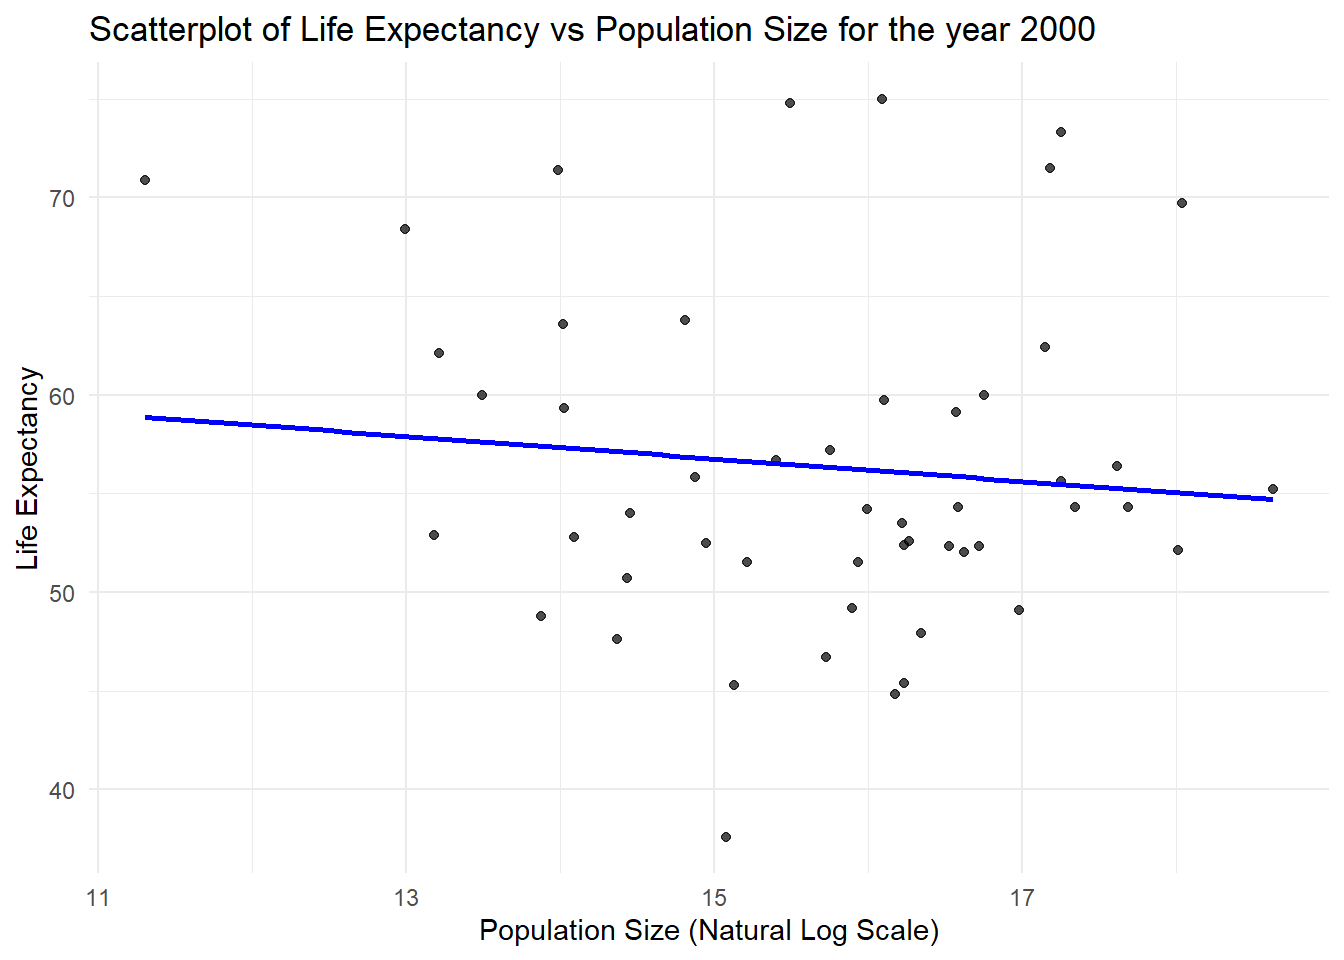
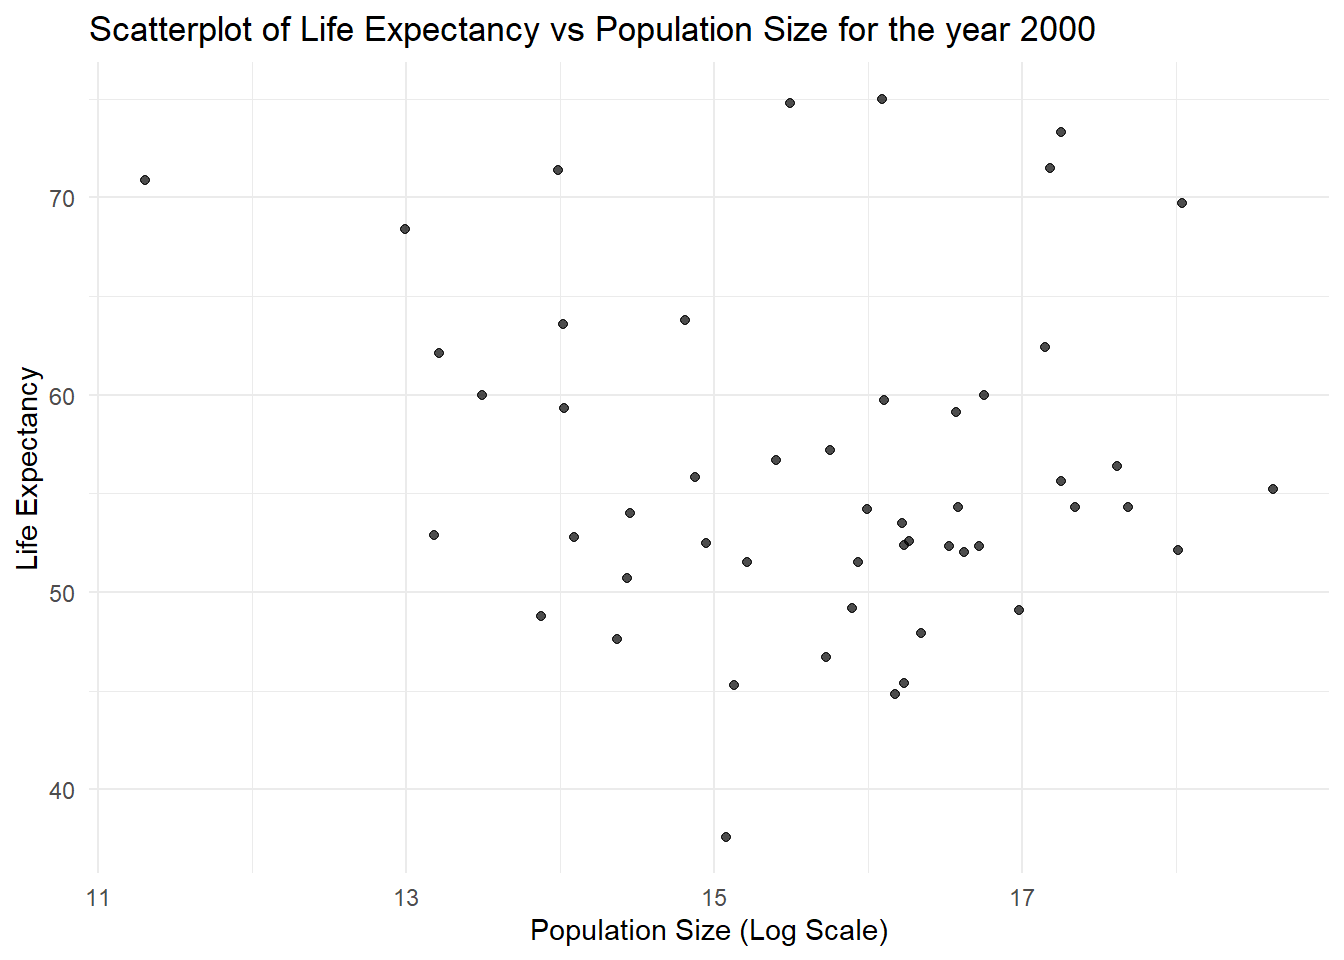
Module 3 Part 1V2

diff --git a/docs/coding-exercise/coding-exercise.html b/docs/coding-exercise/coding-exercise.html
@@ -478,16 +478,12 @@ pre > code.sourceCode > span > a:first-child::before { text-decoration: underlin
 <div class="cell">
 <div class="sourceCode cell-code" id="cb31"><pre class="sourceCode r code-with-copy"><code class="sourceCode r"><span id="cb31-1"><a href="#cb31-1" aria-hidden="true" tabindex="-1"></a><span class="co"># Creating a scatterplot </span></span>
 <span id="cb31-2"><a href="#cb31-2" aria-hidden="true" tabindex="-1"></a><span class="fu">ggplot</span>(data_new, <span class="fu">aes</span>(<span class="at">x =</span> <span class="fu">log</span>(infant_mortality), <span class="at">y =</span> life_expectancy)) <span class="sc">+</span> </span>
-<span id="cb31-3"><a href="#cb31-3" aria-hidden="true" tabindex="-1"></a>  <span class="fu">geom_point</span>(<span class="at">color =</span> <span class="st">"brown"</span>, <span class="at">alpha =</span> <span class="fl">0.7</span>) <span class="sc">+</span> <span class="fu">geom_smooth</span>(<span class="at">method =</span> <span class="st">"lm"</span>, <span class="at">color =</span> <span class="st">"blue"</span>, <span class="at">se =</span> <span class="cn">FALSE</span>) <span class="sc">+</span></span>
-<span id="cb31-4"><a href="#cb31-4" aria-hidden="true" tabindex="-1"></a><span class="fu">labs</span>(</span>
-<span id="cb31-5"><a href="#cb31-5" aria-hidden="true" tabindex="-1"></a>    <span class="at">title =</span> <span class="st">"Scatterplot of Life Expectancy vs Infant Mortality for year 2000"</span>,</span>
-<span id="cb31-6"><a href="#cb31-6" aria-hidden="true" tabindex="-1"></a>    <span class="at">x =</span> <span class="st">"Infant Mortality"</span>,</span>
-<span id="cb31-7"><a href="#cb31-7" aria-hidden="true" tabindex="-1"></a>    <span class="at">y =</span> <span class="st">"Life Expectancy"</span></span>
-<span id="cb31-8"><a href="#cb31-8" aria-hidden="true" tabindex="-1"></a>  ) <span class="sc">+</span></span>
-<span id="cb31-9"><a href="#cb31-9" aria-hidden="true" tabindex="-1"></a>  <span class="fu">theme_minimal</span>()</span></code><button title="Copy to Clipboard" class="code-copy-button"><i class="bi"></i></button></pre></div>
-<div class="cell-output cell-output-stderr">
-<pre><code>`geom_smooth()` using formula = 'y ~ x'</code></pre>
-</div>
+<span id="cb31-3"><a href="#cb31-3" aria-hidden="true" tabindex="-1"></a>  <span class="fu">geom_point</span>(<span class="at">color =</span> <span class="st">"brown"</span>, <span class="at">alpha =</span> <span class="fl">0.7</span>) <span class="sc">+</span> <span class="fu">labs</span>(</span>
+<span id="cb31-4"><a href="#cb31-4" aria-hidden="true" tabindex="-1"></a>    <span class="at">title =</span> <span class="st">"Scatterplot of Life Expectancy vs Infant Mortality for year 2000"</span>,</span>
+<span id="cb31-5"><a href="#cb31-5" aria-hidden="true" tabindex="-1"></a>    <span class="at">x =</span> <span class="st">"Infant Mortality"</span>,</span>
+<span id="cb31-6"><a href="#cb31-6" aria-hidden="true" tabindex="-1"></a>    <span class="at">y =</span> <span class="st">"Life Expectancy"</span></span>
+<span id="cb31-7"><a href="#cb31-7" aria-hidden="true" tabindex="-1"></a>  ) <span class="sc">+</span></span>
+<span id="cb31-8"><a href="#cb31-8" aria-hidden="true" tabindex="-1"></a>  <span class="fu">theme_minimal</span>()</span></code><button title="Copy to Clipboard" class="code-copy-button"><i class="bi"></i></button></pre></div>
 <div class="cell-output-display">
 <div>
 <figure class="figure">
@@ -500,18 +496,14 @@ pre > code.sourceCode > span > a:first-child::before { text-decoration: underlin
 <section id="figure-4-infany-mortality-vs-population-catterplot-for-year-2000" class="level3" data-number="3.5">
 <h3 data-number="3.5" class="anchored" data-anchor-id="figure-4-infany-mortality-vs-population-catterplot-for-year-2000"><span class="header-section-number">3.5</span> Figure 4: Infany mortality vs population catterplot for year 2000</h3>
 <div class="cell">
-<div class="sourceCode cell-code" id="cb33"><pre class="sourceCode r code-with-copy"><code class="sourceCode r"><span id="cb33-1"><a href="#cb33-1" aria-hidden="true" tabindex="-1"></a><span class="co"># Creating scatterplot </span></span>
-<span id="cb33-2"><a href="#cb33-2" aria-hidden="true" tabindex="-1"></a><span class="fu">ggplot</span>(data_new, <span class="fu">aes</span>(<span class="at">x =</span> <span class="fu">log</span>(population), <span class="at">y =</span> life_expectancy)) <span class="sc">+</span> </span>
-<span id="cb33-3"><a href="#cb33-3" aria-hidden="true" tabindex="-1"></a>  <span class="fu">geom_point</span>(<span class="at">color =</span> <span class="st">"black"</span>, <span class="at">alpha =</span> <span class="fl">0.7</span>) <span class="sc">+</span> <span class="fu">geom_smooth</span>(<span class="at">method =</span> <span class="st">"lm"</span>, <span class="at">color =</span> <span class="st">"blue"</span>, <span class="at">se =</span> <span class="cn">FALSE</span>) <span class="sc">+</span></span>
-<span id="cb33-4"><a href="#cb33-4" aria-hidden="true" tabindex="-1"></a><span class="fu">labs</span>(</span>
-<span id="cb33-5"><a href="#cb33-5" aria-hidden="true" tabindex="-1"></a>    <span class="at">title =</span> <span class="st">"Scatterplot of Life Expectancy vs Population Size for the year 2000"</span>,</span>
-<span id="cb33-6"><a href="#cb33-6" aria-hidden="true" tabindex="-1"></a>    <span class="at">x =</span> <span class="st">"Population Size (Natural Log Scale)"</span>,</span>
-<span id="cb33-7"><a href="#cb33-7" aria-hidden="true" tabindex="-1"></a>    <span class="at">y =</span> <span class="st">"Life Expectancy"</span></span>
-<span id="cb33-8"><a href="#cb33-8" aria-hidden="true" tabindex="-1"></a>  ) <span class="sc">+</span></span>
-<span id="cb33-9"><a href="#cb33-9" aria-hidden="true" tabindex="-1"></a>  <span class="fu">theme_minimal</span>()</span></code><button title="Copy to Clipboard" class="code-copy-button"><i class="bi"></i></button></pre></div>
-<div class="cell-output cell-output-stderr">
-<pre><code>`geom_smooth()` using formula = 'y ~ x'</code></pre>
-</div>
+<div class="sourceCode cell-code" id="cb32"><pre class="sourceCode r code-with-copy"><code class="sourceCode r"><span id="cb32-1"><a href="#cb32-1" aria-hidden="true" tabindex="-1"></a><span class="co"># Creating scatterplot </span></span>
+<span id="cb32-2"><a href="#cb32-2" aria-hidden="true" tabindex="-1"></a><span class="fu">ggplot</span>(data_new, <span class="fu">aes</span>(<span class="at">x =</span> <span class="fu">log</span>(population), <span class="at">y =</span> life_expectancy)) <span class="sc">+</span> </span>
+<span id="cb32-3"><a href="#cb32-3" aria-hidden="true" tabindex="-1"></a>  <span class="fu">geom_point</span>(<span class="at">color =</span> <span class="st">"black"</span>, <span class="at">alpha =</span> <span class="fl">0.7</span>) <span class="sc">+</span> <span class="fu">labs</span>(</span>
+<span id="cb32-4"><a href="#cb32-4" aria-hidden="true" tabindex="-1"></a>    <span class="at">title =</span> <span class="st">"Scatterplot of Life Expectancy vs Population Size for the year 2000"</span>,</span>
+<span id="cb32-5"><a href="#cb32-5" aria-hidden="true" tabindex="-1"></a>    <span class="at">x =</span> <span class="st">"Population Size (Log Scale)"</span>,</span>
+<span id="cb32-6"><a href="#cb32-6" aria-hidden="true" tabindex="-1"></a>    <span class="at">y =</span> <span class="st">"Life Expectancy"</span></span>
+<span id="cb32-7"><a href="#cb32-7" aria-hidden="true" tabindex="-1"></a>  ) <span class="sc">+</span></span>
+<span id="cb32-8"><a href="#cb32-8" aria-hidden="true" tabindex="-1"></a>  <span class="fu">theme_minimal</span>()</span></code><button title="Copy to Clipboard" class="code-copy-button"><i class="bi"></i></button></pre></div>
 <div class="cell-output-display">
 <div>
 <figure class="figure">
@@ -527,11 +519,11 @@ pre > code.sourceCode > span > a:first-child::before { text-decoration: underlin
 <p>In the first model, the p-value is less than 0.05. Therefore, this suggest that infant mortality is a strong predictor of life expectancy.the R-squared of 0.4701 means that 47% of the variation in life expectancy is explained by infant mortality.</p>
 <p>In the second model, the p-value is greater than 0.05. Therefore, there is no strong statistical evidence to suggest that population size is a significant predictor of life expectancy.The R-squared of 0.01044 means that 1% of the variation in life expectancy is explained by population size, which is weak.</p>
 <div class="cell">
-<div class="sourceCode cell-code" id="cb35"><pre class="sourceCode r code-with-copy"><code class="sourceCode r"><span id="cb35-1"><a href="#cb35-1" aria-hidden="true" tabindex="-1"></a><span class="co"># Fitting the linear model</span></span>
-<span id="cb35-2"><a href="#cb35-2" aria-hidden="true" tabindex="-1"></a>fit1 <span class="ot">&lt;-</span> <span class="fu">lm</span>(life_expectancy <span class="sc">~</span> infant_mortality, <span class="at">data =</span> data_new)</span>
-<span id="cb35-3"><a href="#cb35-3" aria-hidden="true" tabindex="-1"></a>fit2 <span class="ot">&lt;-</span> <span class="fu">lm</span>(life_expectancy <span class="sc">~</span> <span class="fu">log</span>(population), <span class="at">data =</span> data_new)</span>
-<span id="cb35-4"><a href="#cb35-4" aria-hidden="true" tabindex="-1"></a><span class="co"># summary of the model</span></span>
-<span id="cb35-5"><a href="#cb35-5" aria-hidden="true" tabindex="-1"></a><span class="fu">summary</span>(fit1)</span></code><button title="Copy to Clipboard" class="code-copy-button"><i class="bi"></i></button></pre></div>
+<div class="sourceCode cell-code" id="cb33"><pre class="sourceCode r code-with-copy"><code class="sourceCode r"><span id="cb33-1"><a href="#cb33-1" aria-hidden="true" tabindex="-1"></a><span class="co"># Fitting the linear model</span></span>
+<span id="cb33-2"><a href="#cb33-2" aria-hidden="true" tabindex="-1"></a>fit1 <span class="ot">&lt;-</span> <span class="fu">lm</span>(life_expectancy <span class="sc">~</span> infant_mortality, <span class="at">data =</span> data_new)</span>
+<span id="cb33-3"><a href="#cb33-3" aria-hidden="true" tabindex="-1"></a>fit2 <span class="ot">&lt;-</span> <span class="fu">lm</span>(life_expectancy <span class="sc">~</span> <span class="fu">log</span>(population), <span class="at">data =</span> data_new)</span>
+<span id="cb33-4"><a href="#cb33-4" aria-hidden="true" tabindex="-1"></a><span class="co"># summary of the model</span></span>
+<span id="cb33-5"><a href="#cb33-5" aria-hidden="true" tabindex="-1"></a><span class="fu">summary</span>(fit1)</span></code><button title="Copy to Clipboard" class="code-copy-button"><i class="bi"></i></button></pre></div>
 <div class="cell-output cell-output-stdout">
 <pre><code>
 Call:
@@ -552,7 +544,7 @@ Residual standard error: 6.221 on 49 degrees of freedom
 Multiple R-squared:  0.4701,    Adjusted R-squared:  0.4593 
 F-statistic: 43.48 on 1 and 49 DF,  p-value: 2.826e-08</code></pre>
 </div>
-<div class="sourceCode cell-code" id="cb37"><pre class="sourceCode r code-with-copy"><code class="sourceCode r"><span id="cb37-1"><a href="#cb37-1" aria-hidden="true" tabindex="-1"></a><span class="fu">summary</span>(fit2) </span></code><button title="Copy to Clipboard" class="code-copy-button"><i class="bi"></i></button></pre></div>
+<div class="sourceCode cell-code" id="cb35"><pre class="sourceCode r code-with-copy"><code class="sourceCode r"><span id="cb35-1"><a href="#cb35-1" aria-hidden="true" tabindex="-1"></a><span class="fu">summary</span>(fit2) </span></code><button title="Copy to Clipboard" class="code-copy-button"><i class="bi"></i></button></pre></div>
 <div class="cell-output cell-output-stdout">
 <pre><code>
 Call:
